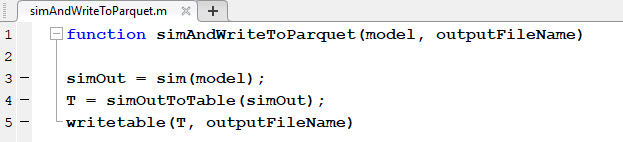
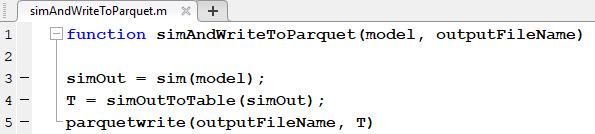
Updating post: a-trick-you-dont-know-about-python-matlab-functionality

diff --git a/_posts/2021-07-20-a-trick-you-dont-know-about-python-matlab-functionality.md b/_posts/2021-07-20-a-trick-you-dont-know-about-python-matlab-functionality.md
@@ -53,7 +53,7 @@ Running the model through the MATLAB Engine is as simple as calling the MATLAB `
 
 
 ```python
-outputFileName = "controllerResponse.csv"
+outputFileName = "controllerResponse.parquet"
 eng.simAndWriteToParquet(ModelName, outputFileName)
 ```
 
@@ -62,7 +62,7 @@ You can then read the results from the simulation using `pyarrow`:
 ```python
 import pandas as pd
 # Read as a dataframe and display
-df = pd.read_csv(outputFileName)
+df = pd.read_parquet(outputFileName)
 print(df)
 ```
 
